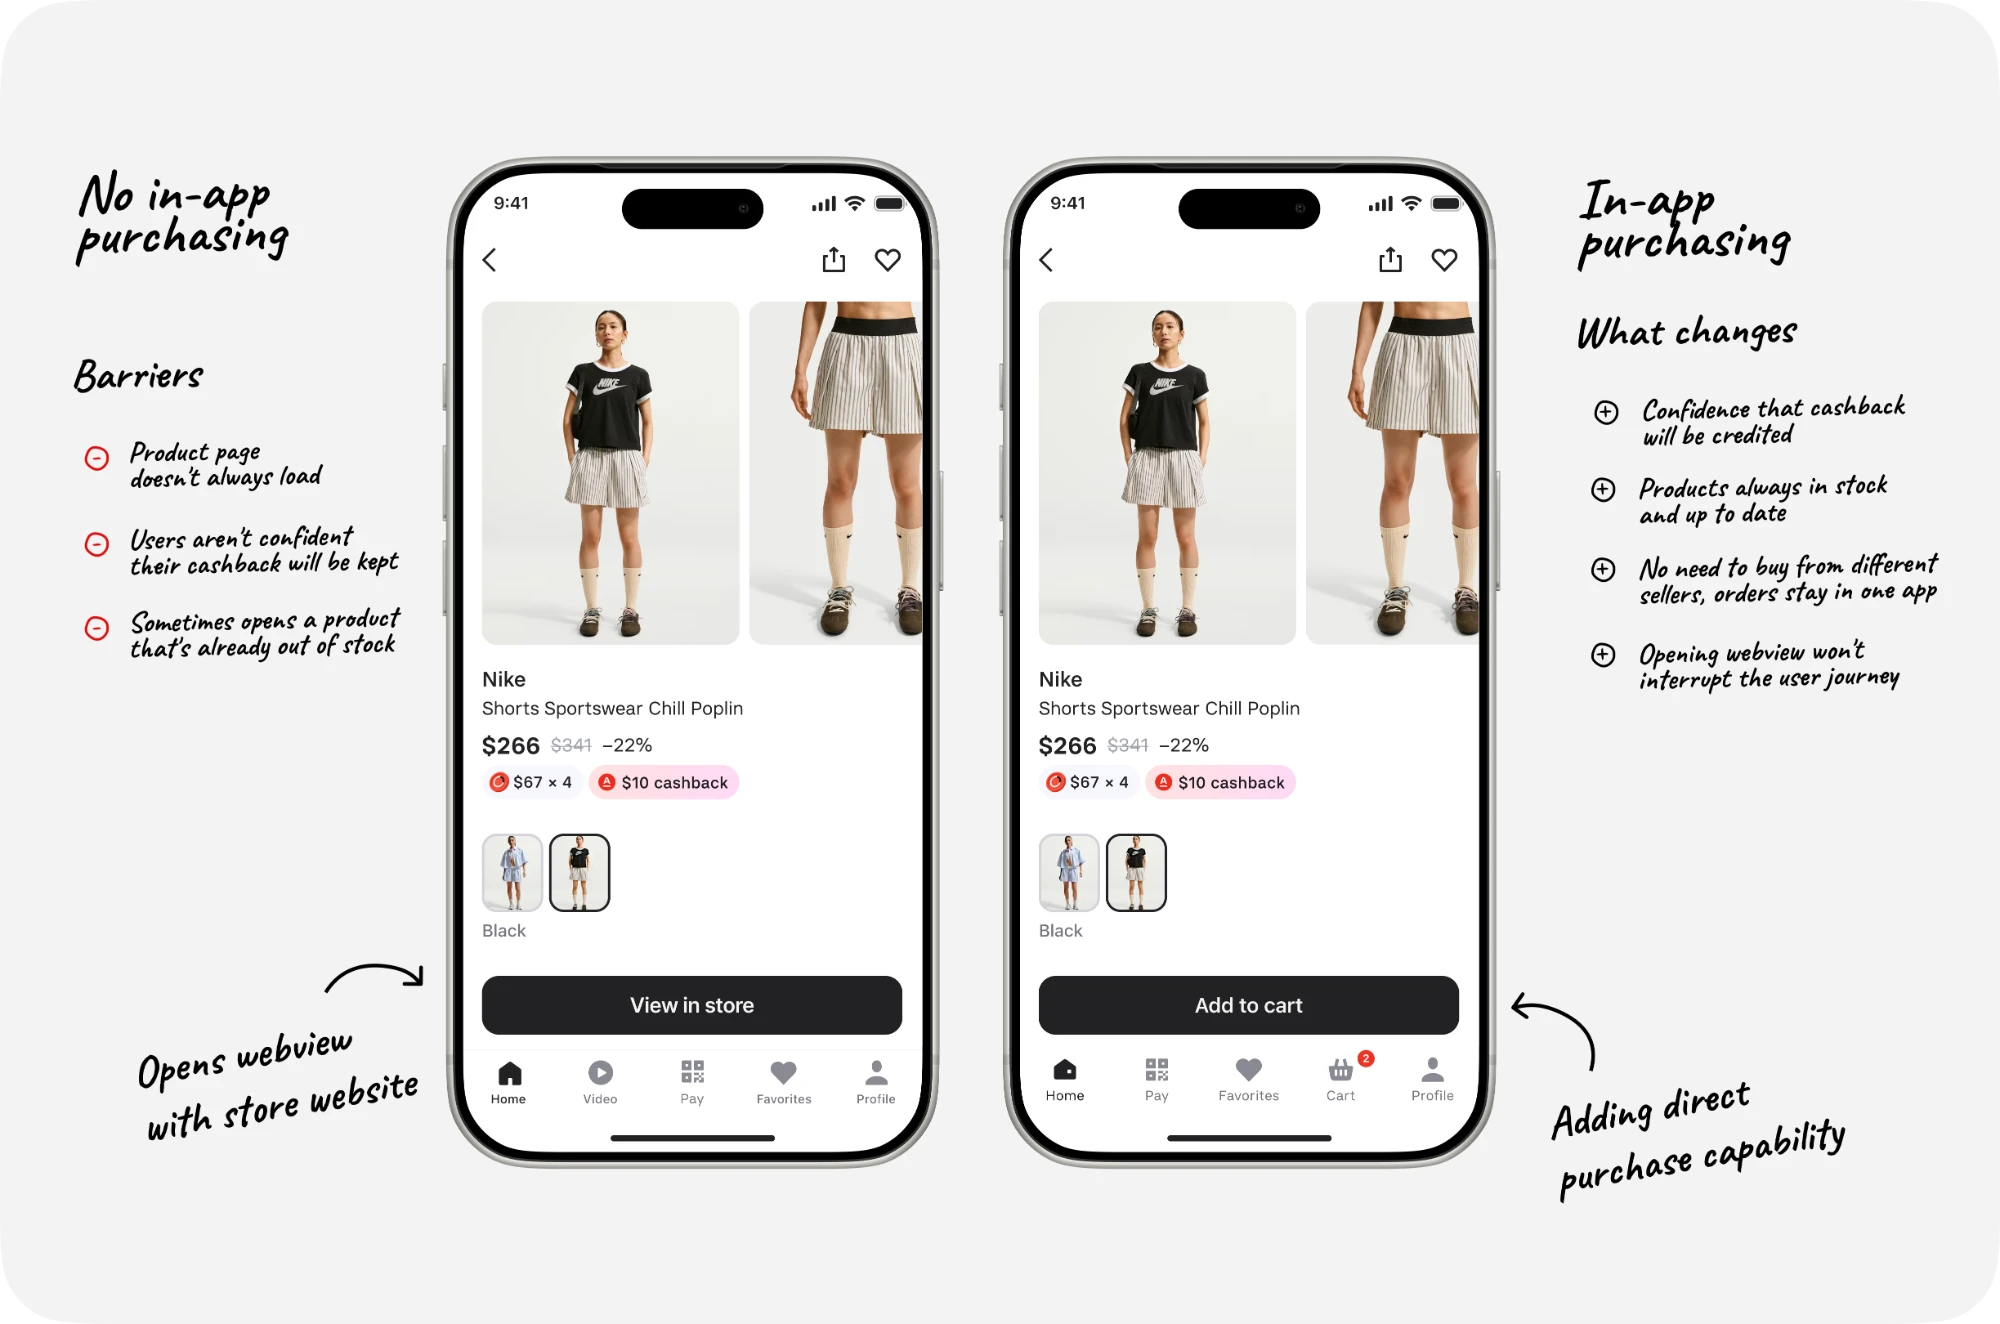
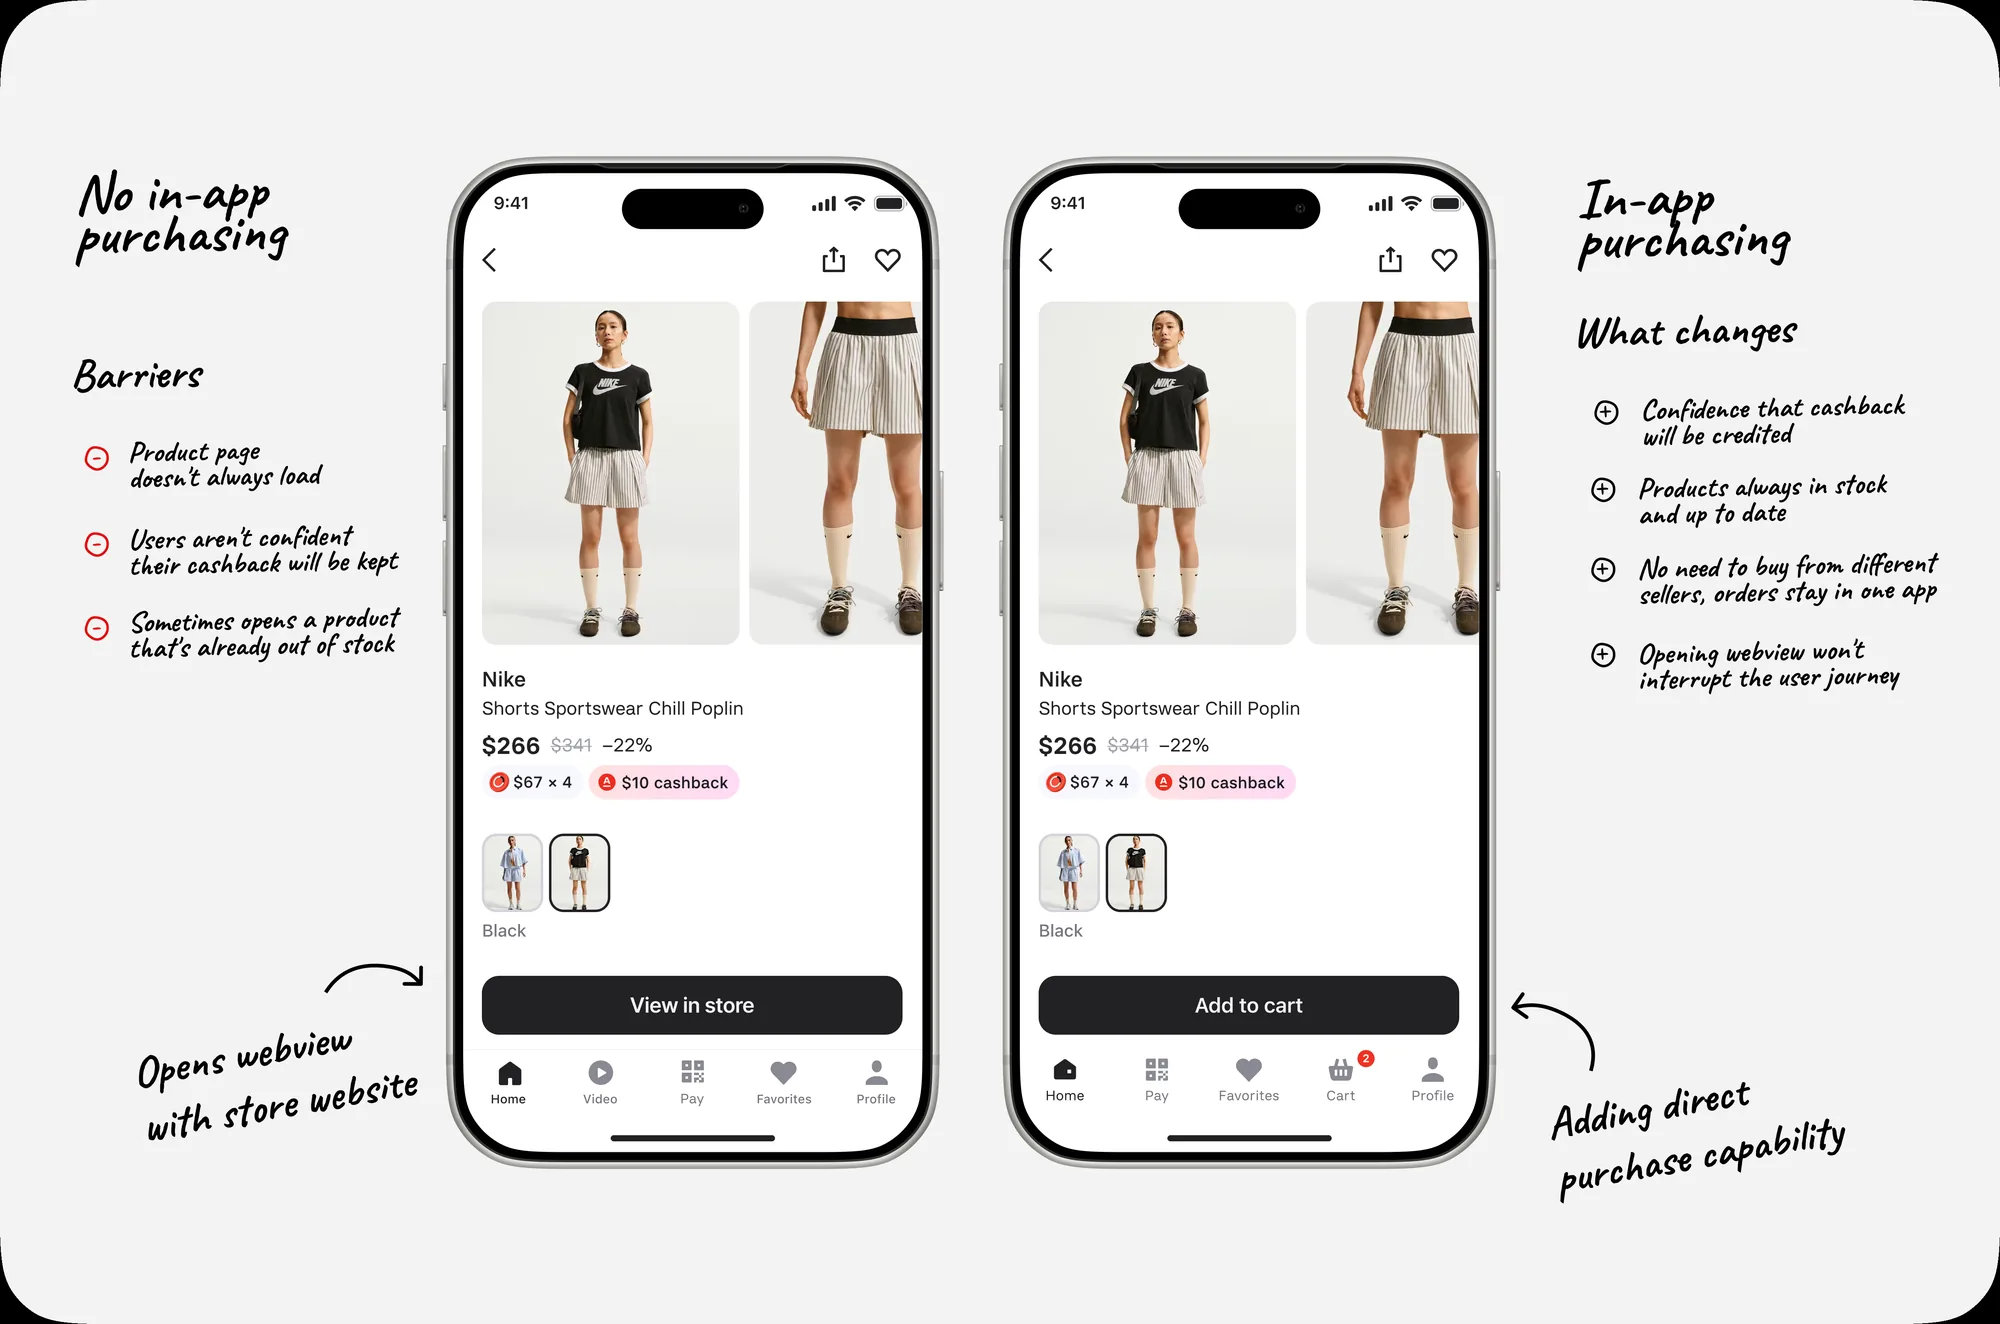
Ещё английские картинки в кейсе Alfa-Market (#55)
Добавила: cjm-en, profile-purchases-en (новые слоты).
Заменила на версии из твоей прямой заливки в высоком разрешении:
difference-en, ecom-context-en, options-en (пережала в webp).
summary теперь настоящая анимированная гифка на английском вместо
статичной заглушки.

РУ-файл не трогала.

diff --git a/case-alfa-en.html b/case-alfa-en.html
@@ -57,7 +57,7 @@
       <p>Using CJM, competitive analysis, and UX testing, I found a clear structure for the multi-seller cart, accounted for the technical constraint of separate checkouts, and prepared the MVP for launch across two channels — Podeli and the Alfa-Bank app.</p>
 
       <div class="figure">
-        <img src="images/alfa/summary-en.webp" alt="Purchase flow overview — empty cart, multi-seller cart, and the Purchases section" loading="lazy">
+        <img src="images/alfa/summary-en.gif" alt="Purchase flow overview — empty cart, multi-seller cart, and the Purchases section" loading="lazy">
       </div>
 
       <p>The new flow let the product move from a clickout model to a full marketplace that earns commission on completed orders.</p>
@@ -177,7 +177,7 @@
       <h3 class="case-h3">CJM</h3>
       <p>Based on the research, NN/g recommendations, and technical constraints, I mapped the target purchase journey.</p>
       <div class="figure">
-        <img src="images/alfa/cjm.webp" alt="Purchase process CJM — focus: adding direct purchase" loading="lazy">
+        <img src="images/alfa/cjm-en.webp" alt="Purchase process CJM — focus: adding direct purchase" loading="lazy">
       </div>
       <p>The CJM helped treat the cart not as a standalone screen but as the connecting step between choosing a product and checking out with different sellers. It organized the known and potential barriers that the design needed to address and that UX testing needed to validate.</p>
 
@@ -268,7 +268,7 @@
       <p>Previously, the "Purchases" section only showed installment orders. With the marketplace launch, I needed to add delivery information while keeping the familiar payment-tracking flow.</p>
       <p>I considered splitting it into two separate items — "Orders" and "Payments" — but that complicated navigation and broke the familiar flow. So I merged deliveries and payments inside "Purchases".</p>
       <p>I placed deliveries in a horizontal scroll above payments. Users immediately see the status of current orders without it crowding out upcoming payment info. Order details include a pickup QR code, pickup point address, order number, payment method, and any required actions.</p>
-      <div class="figure"><img src="images/alfa/profile-purchases.webp" alt="The Purchases section with deliveries and payments" loading="lazy"></div>
+      <div class="figure"><img src="images/alfa/profile-purchases-en.webp" alt="The Purchases section with deliveries and payments" loading="lazy"></div>
     </div>
 
     <!-- ============ 4. Results after launch ============ -->
